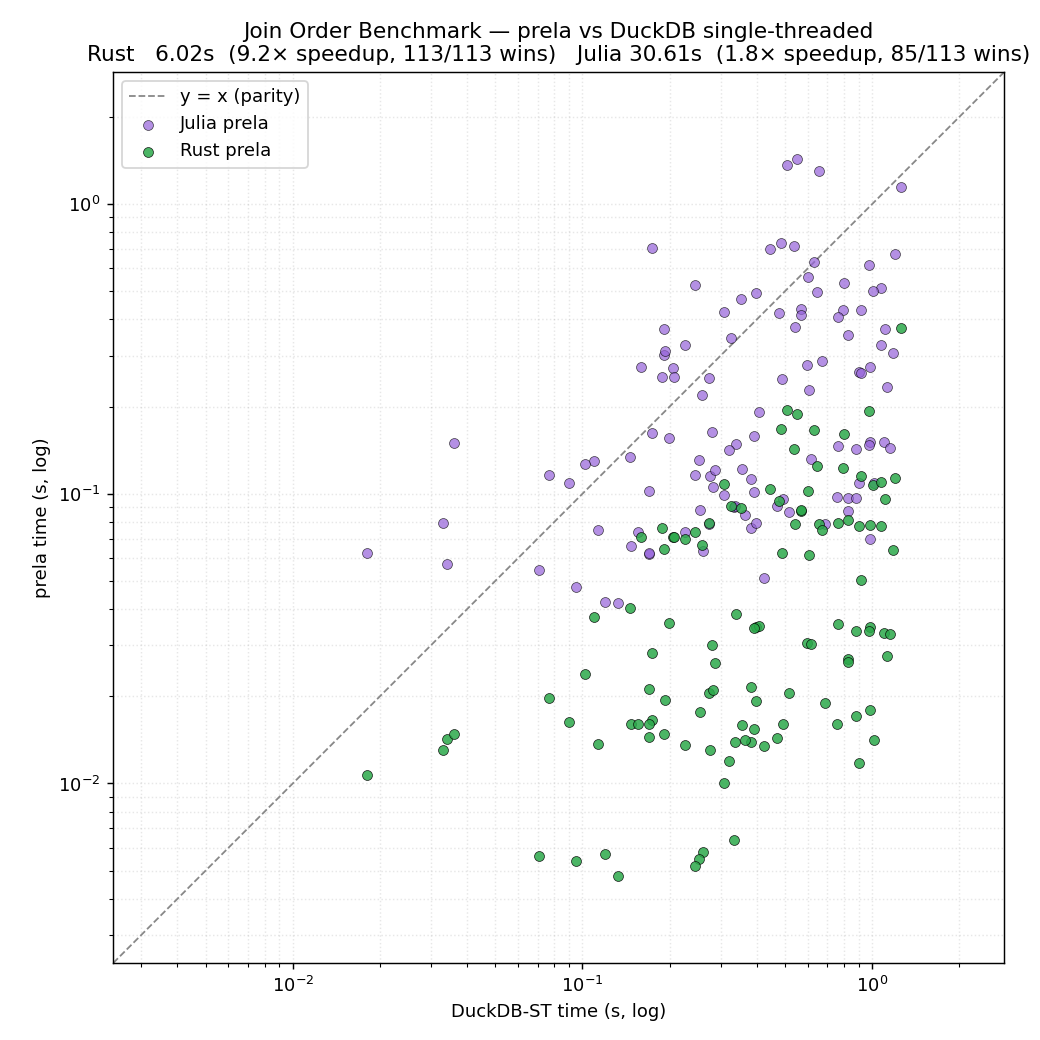
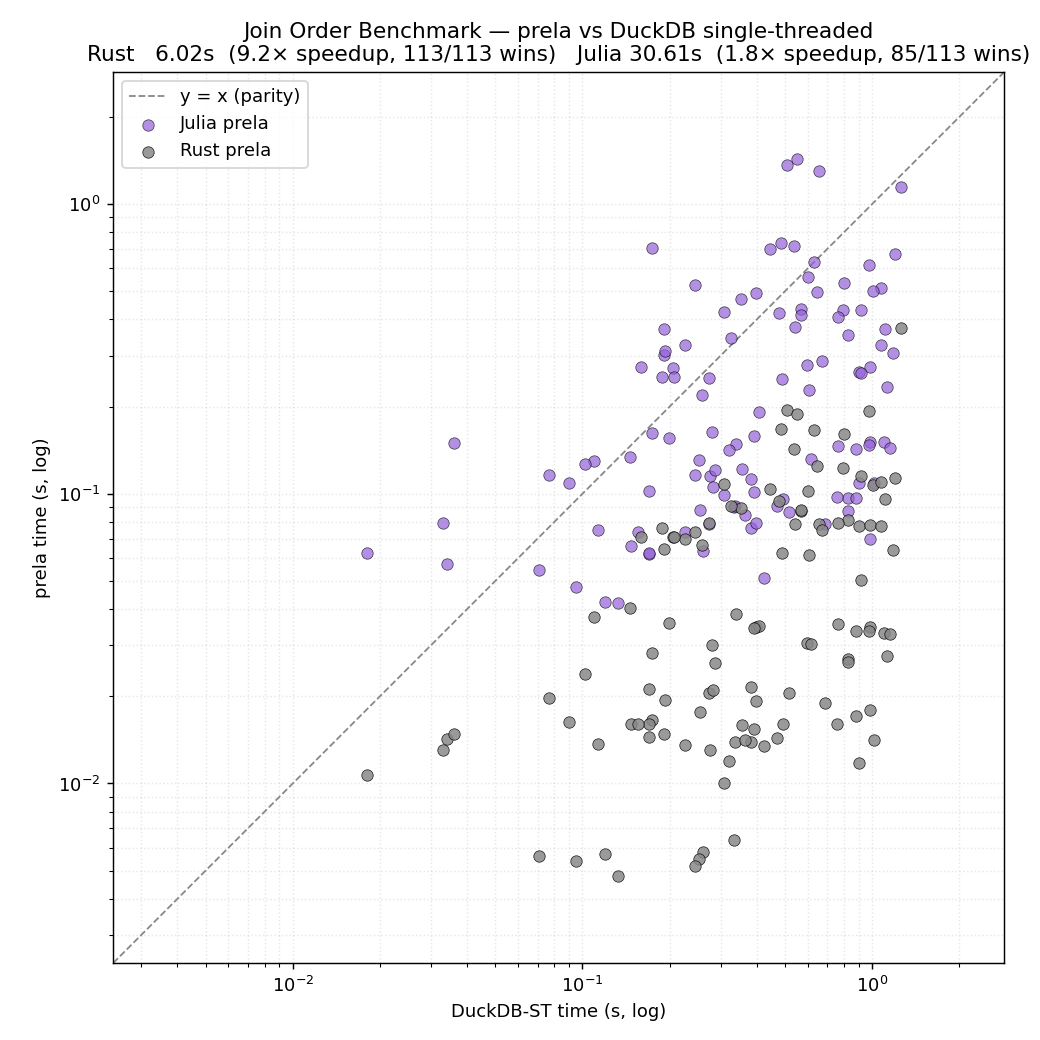
less plto

diff --git a/rust/bench/plot_tpch.py b/rust/bench/plot_tpch.py
@@ -73,14 +73,11 @@ def main():
     fig, ax = plt.subplots(figsize=(8, 8))
     ax.plot([lo, hi], [lo, hi], color="#888", linestyle="--", linewidth=1,
             label="y = x (parity)")
-    ax.scatter(xs, yj, s=60, color="#9461D9", edgecolor="black",
-               linewidth=0.5, alpha=0.85, label="Julia prela", zorder=2)
-    ax.scatter(xs, yr, s=60, color="#888888", edgecolor="black",
-               linewidth=0.5, alpha=0.95, label="Rust prela (idiomatic)",
+    ax.scatter(xs, yj, s=40, color="#9461D9", edgecolor="black",
+               linewidth=0.4, alpha=0.7, label="Julia prela", zorder=2)
+    ax.scatter(xs, yr, s=40, color="#888888", edgecolor="black",
+               linewidth=0.4, alpha=0.85, label="Rust prela (idiomatic)",
                zorder=3)
-    for q, x, y in zip(qs, xs, yr):
-        ax.annotate(f"Q{q}", (x, y), xytext=(4, 4),
-                    textcoords="offset points", fontsize=8, color="#333")
 
     ax.set_xscale("log"); ax.set_yscale("log")
     ax.set_xlim(lo, hi);  ax.set_ylim(lo, hi)

diff --git a/rust/bench/plot_job.py b/rust/bench/plot_job.py
@@ -78,9 +78,9 @@ def main():
     fig, ax = plt.subplots(figsize=(8, 8))
     ax.plot([lo, hi], [lo, hi], color="#888", linestyle="--", linewidth=1,
             label="y = x (parity)")
-    ax.scatter(xs, yj, s=30, color="#9461D9", edgecolor="black",
+    ax.scatter(xs, yj, s=40, color="#9461D9", edgecolor="black",
                linewidth=0.4, alpha=0.7, label="Julia prela", zorder=2)
-    ax.scatter(xs, yr, s=30, color="#2BA84A", edgecolor="black",
+    ax.scatter(xs, yr, s=40, color="#888888", edgecolor="black",
                linewidth=0.4, alpha=0.85, label="Rust prela", zorder=3)
 
     ax.set_xscale("log"); ax.set_yscale("log")